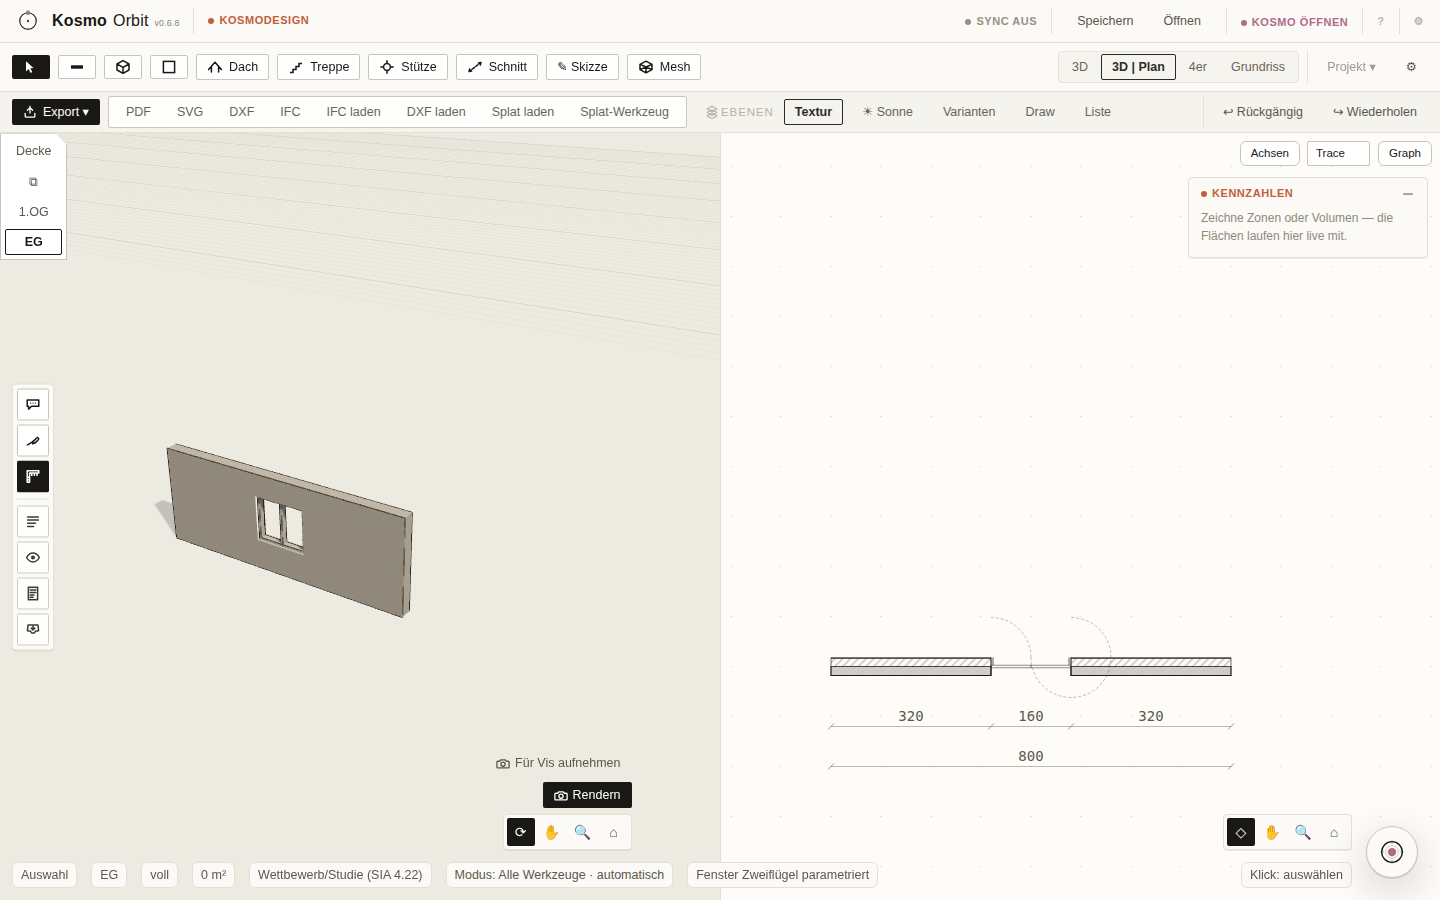
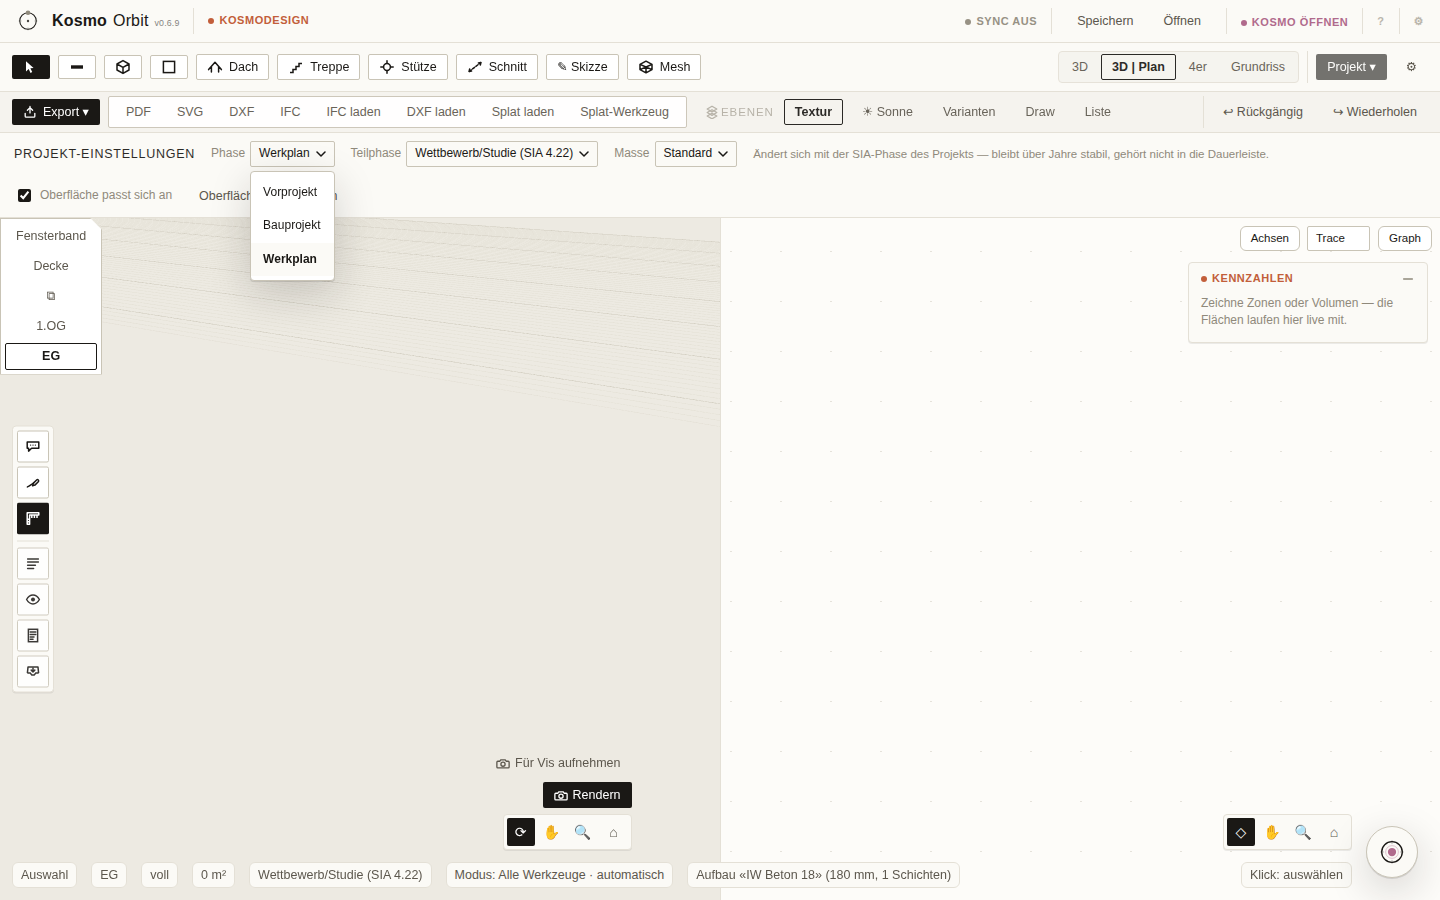
v0.6.9 «Offene Fenster, klare Antworten» — Release (ROADMAP 309/310)
- ROADMAP 309 (Kritik-Runde 2 + Journal-Statusrunde) und 310 (Release):
  Vollsuite 308 passed / 1 skipped / 0 rot (31.6 min) gegen den frischen
  0.6.9-Build, Unit 1452, Scan-Wächter grün.
- Release-Notiz regeneriert (9 Einträge, 302–310).
- KSelect-offen-Kritikshot korrekt nachgeholt (Projekt-Menü zuerst).
- .desktop-build-request + .pages-build-request angestossen — Auftrag:
  alle drei Workflows grün, Pages serviert 0.6.9.

Claude-Session: https://claude.ai/code/session_016m1YNbjeHDyZk5hdWtRUEp

diff --git a/kosmo-orbit/ROADMAP.md b/kosmo-orbit/ROADMAP.md
@@ -849,4 +849,16 @@ Container-machbar, Reihenfolge = Hebel für den Wettbewerbs-Alltag:
     - Journey A wächst: eigener Chat-Zug parametriert das Wohnzimmerfenster zweiflügelig (reale Opening-Id aus dem Doc, keine geratenen IDs) + Plan-Sichtbarkeits-Assertion; dabei einen echten Altfehler behoben: PlanView renderte Arc-Klassen NIE ins DOM (fenster-/tuer-bogen waren nicht adressierbar). 3× isoliert grün.
     - H-39: tuschePfade je Typologie 2-3 zusätzliche Hash-Varianten — Fund: object/default hatten GAR keine Variation; jetzt deterministisch vielfältiger (16 neue Unit-Tests). IFC/DXF additiv bewiesen: parametrische Fenster crashen keinen Export, IFC bleibt ehrlich beim Void (kein IFCWINDOW behauptet), DXF erbt Bögen/Pfostentakt automatisch als ARC/LINE. Wellen-Gate: 1452 Unit + 16 E2E grün.
 
+309. **Kritik-Runde 2 + Journal-Statusrunde v0.6.9** *(10.07.2026)*
+    - Kritik-Shots 069 (Fenster-Zweiflügel 3D|Plan, Fensterband-Grundriss, KSelect offen im Projekt-Menü, Kosmo-Blick-Chip im Grundriss) gefahren und triagiert; Direktfix H-44: Kosmos Begrüssung pluralisierte stur («stehen 1 Wände über 1 Geschosse») — greeting() trennt jetzt Singular/Plural sauber, kein Test hing am Wortlaut.
+    - SIM-BEFUNDE-Statusrunde (append-only): H-31 behoben (307), H-39 behoben (308); NEU H-42 (Fenster-Öffnungsbögen im Grundriss fachlich unüblich — Owner-Geschmacksfrage, Sichtbarkeits-Schalter als 0.7.0-Option), H-43 (Inspector überlappt bei schmalen Viewports die NavLeiste — Layout-Fix 0.7.0), H-44 (behoben); Notiz: CurtainWallPanel-Sichtbarkeit noch nicht in der useUiZustand-Buchführung (0.7.0).
+    - Kür K2 (Referenz-3D-Download) angesichts der späten Stunde ehrlich NICHT begonnen — sauber als erster 0.7.0-Punkt vertagt statt halbfertig eingecheckt.
+
+310. **v0.6.9 «Offene Fenster, klare Antworten» — Release** *(10.07.2026)*
+    - Release-Bump 0.6.9 (package.json ×2 + Lock + tauri.conf.json + Cargo.toml), neuigkeiten.ts mit 8 ehrlichen Punkten (parametrische Fenster + Fassadenband, Wissen zitiert Importe, echtes KSelect, Blick-Beweise + Vollbild, Dach-Linienhierarchie + SVG-QA, Piktogramm-Varianz + Bridge-Isolation, CI-Heilung + Begrüssungs-Singular).
+    - **Komplette Vollsuite: 308 passed, 1 skipped (bekannter konditionaler STT-Skip), 0 rot** (31.6 min) gegen den frischen 0.6.9-Build auf :5183 (Bundle==dist geprüft) — inkl. wissen-antwortet, kosmo-blick-2, beide Journeys mit Fenster-Zug. Unit-Gesamt 1452 (Kernel 550 · KI 96 · App 720 · Contracts 28 · Data 25 · UI 25 · Lizenz 8), typecheck sauber.
+    - Release-Schritt §0 grün (`node tools/ai-scan-delta.mjs`, Auswertung 0.6.9 = ehrliches Kurz-Delta), Release-Notiz `wissen/vault/Releases/Release-0.6.9-2026-07-10.md` (Einträge 302–310).
+    - .desktop-build-request + .pages-build-request angestossen; Auftrag: alle drei Workflows grün — Desktop-Installer, Pages-Web-App auf 0.6.9 UND der in 302 geheilte kosmo-orbit-ci.yml (typecheck/test/build/secret-scan/E2E im Repo-CI).
+    - Tagesbilanz (302–310): CI-Dauerrot-Wurzelursache behoben (erster grüner Lauf inkl. E2E-Job), parametrische Fenster + Curtain-Wall v1 mit Konzept-Gate, Wissen antwortet mit [Qn]-Beleg aus dem eigenen Import, 72 E2E-Vertragsstellen auf echtes KSelect umgestellt, Kosmo-Blick vollständig bewiesen (dabei ein echter 0.6.8-Bug gefunden+behoben), Werkplan-Härte (Linienhierarchie, SVG-QA-Loop, H-31), Fenster im Alltag (Inspector-UI, Journey-Zug, H-39, Export-Beweise), H-44-Direktfix. Ehrliche 0.7.0-Restliste: K2 Referenz-3D-Download, echter Cloud-/Ollama-Bildcall, RAG-Anything (WATCH), K9, OAuth-Härtetest, D8, Öffnungsflügel/Beschläge, Video-Blick, Opening-Hit-Testing im Plan, H-42-Schalter, H-43-Layout, CurtainWallPanel→useUiZustand.
+
 **Phase 3 abgeschlossen (03.07.2026):** Punkte 25–33 alle ✅ (einzige HomeStation-Reste ehrlich markiert: Render-Slots im Plakat, eigene Asset-Uploads, LoRA-Training selbst). Es folgt die grosse Härtetest-Runde übers Gesamtsystem.

diff --git a/wissen/vault/Releases/Release-0.6.9-2026-07-10.md b/wissen/vault/Releases/Release-0.6.9-2026-07-10.md
@@ -13,7 +13,7 @@ Automatisch erzeugt aus `ROADMAP.md` (Einträge ab **302**) von
 git, obsidian und die neuste Installer-Version zum Herunterladen auf der
 Website»).
 
-## Enthaltene ROADMAP-Einträge (302–308)
+## Enthaltene ROADMAP-Einträge (302–310)
 
 - **302.** v0.6.9-Vorspann: CI-Dauerrot geheilt + Scan-Delta-Lauf 2
 - **303.** Parametrische Fenster & Fensterband/Curtain-Wall v1
@@ -22,6 +22,8 @@ Website»).
 - **306.** Kosmo-Blick fertig bewiesen — inklusive eines echten 0.6.8-Bugs
 - **307.** Werkplan-Härte: Dach-Linienhierarchie, SVG-QA-Loop v1, H-31
 - **308.** Fenster im Alltag: Parametrik-UI, Journey-Zug, H-39, Export-Beweise
+- **309.** Kritik-Runde 2 + Journal-Statusrunde v0.6.9
+- **310.** v0.6.9 «Offene Fenster, klare Antworten» — Release
 
 ## Installer
 
@@ -59,4 +61,12 @@ liegt (siehe [[Release-Ablauf]] Abschnitt 6, DEPLOYMENT.md).
 ### 308
 
 308. **Fenster im Alltag: Parametrik-UI, Journey-Zug, H-39, Export-Beweise** *(10.07.2026, v0.6.9 Welle 3 / Stream F)*
+
+### 309
+
+309. **Kritik-Runde 2 + Journal-Statusrunde v0.6.9** *(10.07.2026)*
+
+### 310
+
+310. **v0.6.9 «Offene Fenster, klare Antworten» — Release** *(10.07.2026)*
 